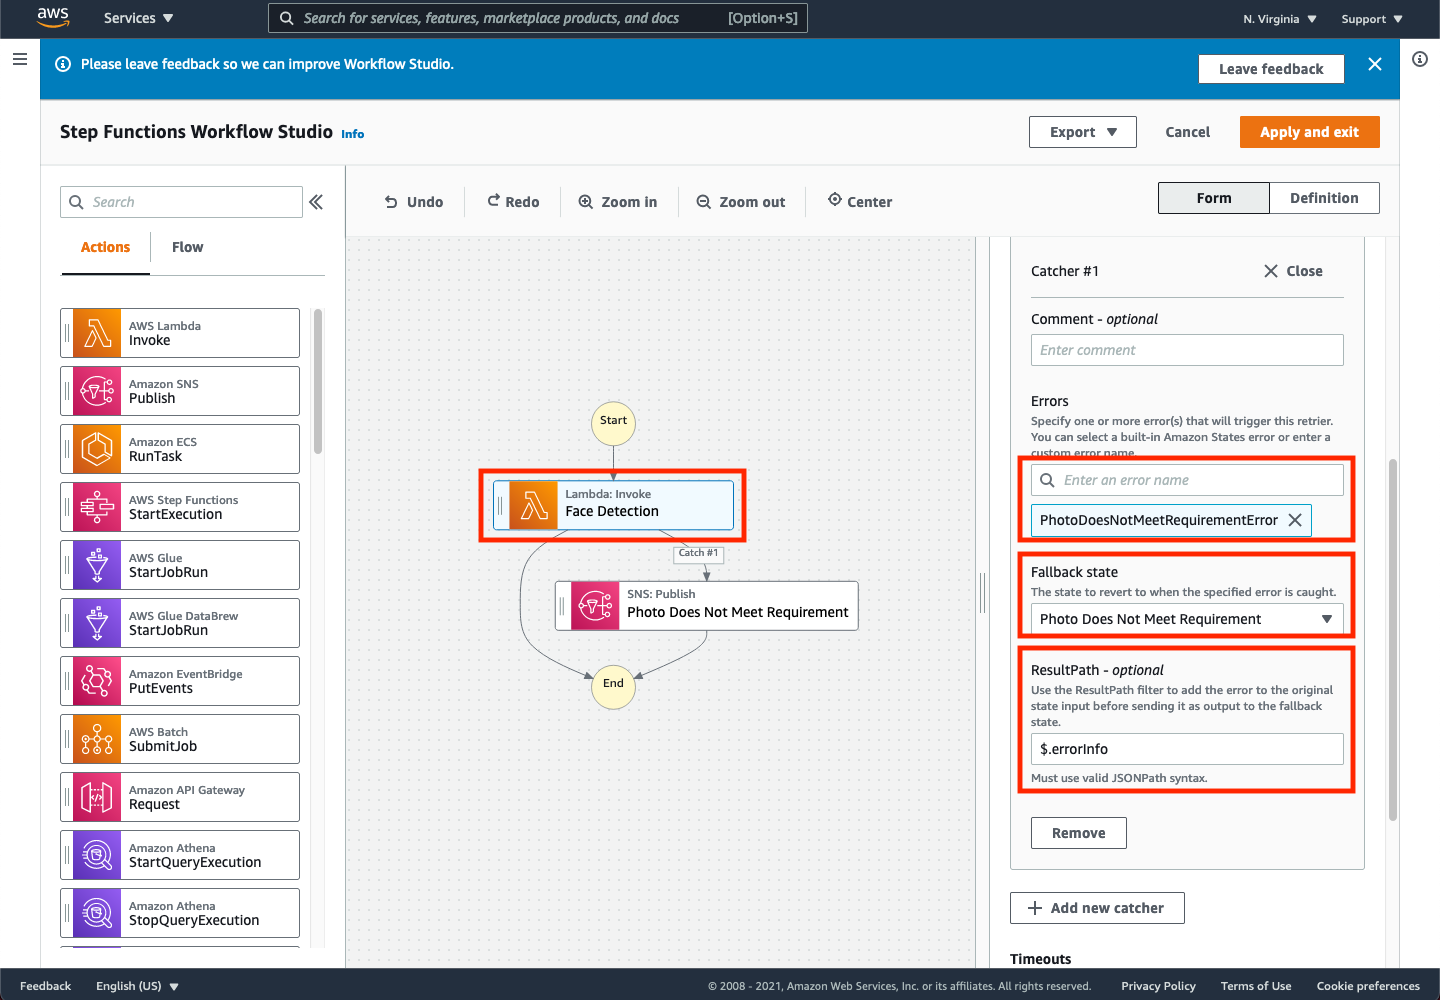
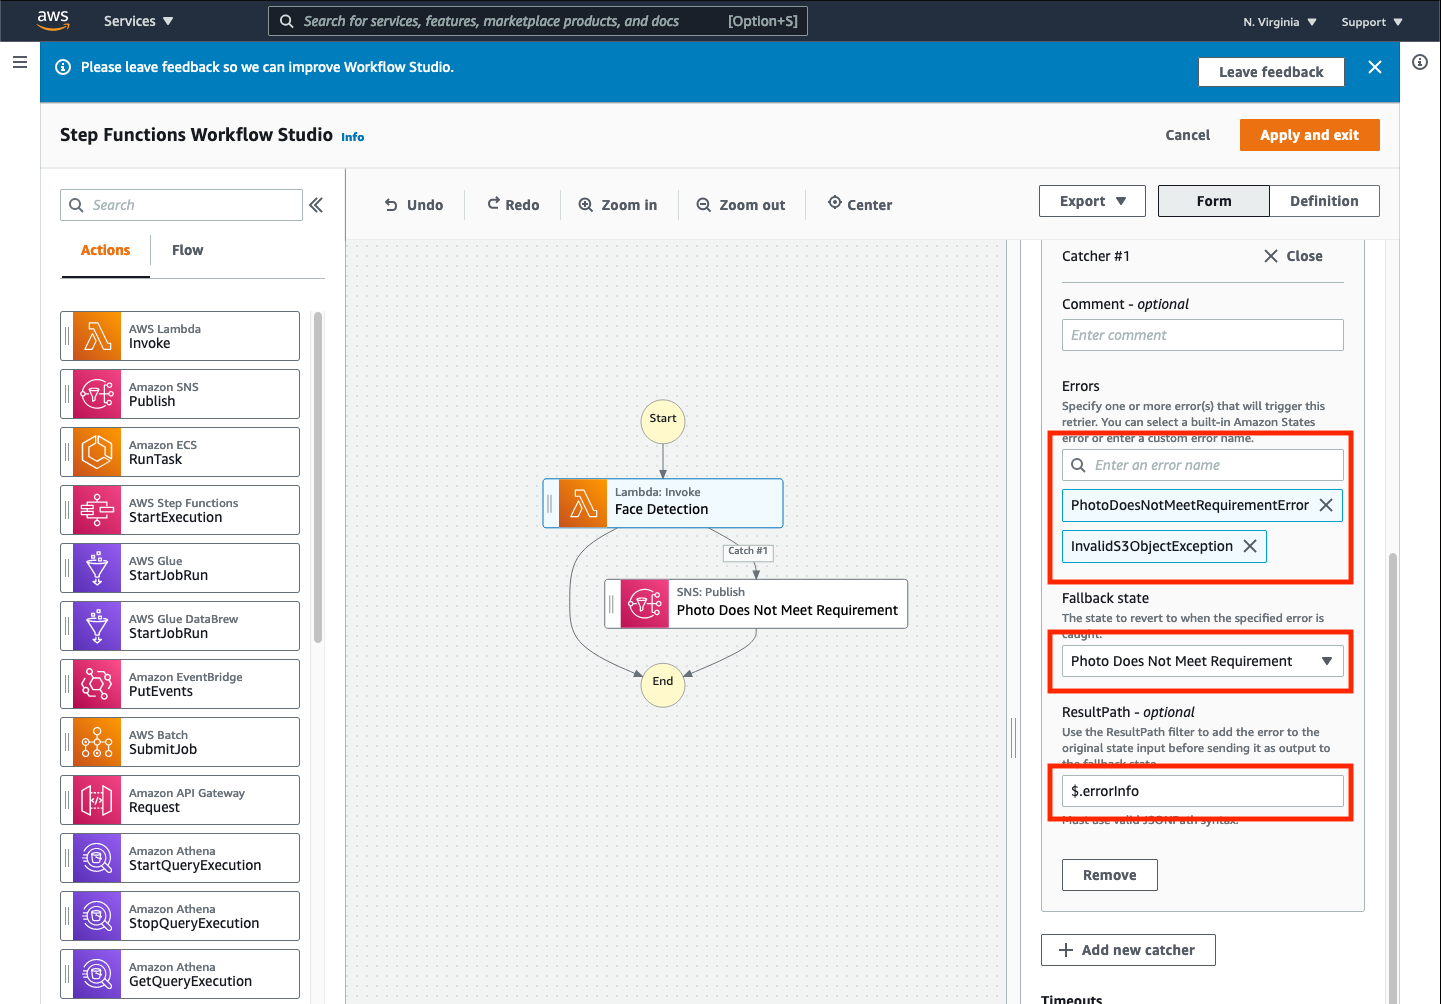
Added more Exceptions to error catching

diff --git a/ImageProcessing/workshop/content/03_implementation/30_state machine/_index.en.md b/ImageProcessing/workshop/content/03_implementation/30_state machine/_index.en.md
@@ -125,14 +125,14 @@ Note, If this state machine was executed, the SNS topic state would be bypassed,
 >}}
 
 {{% notice warning %}}
-Make sure that **ONLY** the **Add original input to output using ResultPath** option is chosen. If either of the other two check boxes are selected, you will likely receive a failure when executing the state machine.
+Make sure that *ONLY* the **Add original input to output using ResultPath** option is chosen. If either of the other two check boxes are selected, you will likely receive a failure when executing the state machine.
 {{% /notice %}}
 
 ➡ Step 10: Add an error handler.
 
 Next, let's configure a message to be sent *only* when the face detection Lambda emits an exception. With the **Face Detection** state selected, click on the **Error handling** tab. Click the **+ Add new catcher** button and configure Catcher #1 to have the following details:
 
-1. Errors: Type `PhotoDoesNotMeetRequirementError` and press **Enter**
+1. Errors: Add two error types to catch. Type `PhotoDoesNotMeetRequirementError` and press **Enter**, Type `InvalidS3ObjectException` and press **Enter**
 1. Fallback state: Select **Photo Does Not Meet Requirement** from the drop-down list
 1. ResultPath: Enter `$.errorInfo`
 
